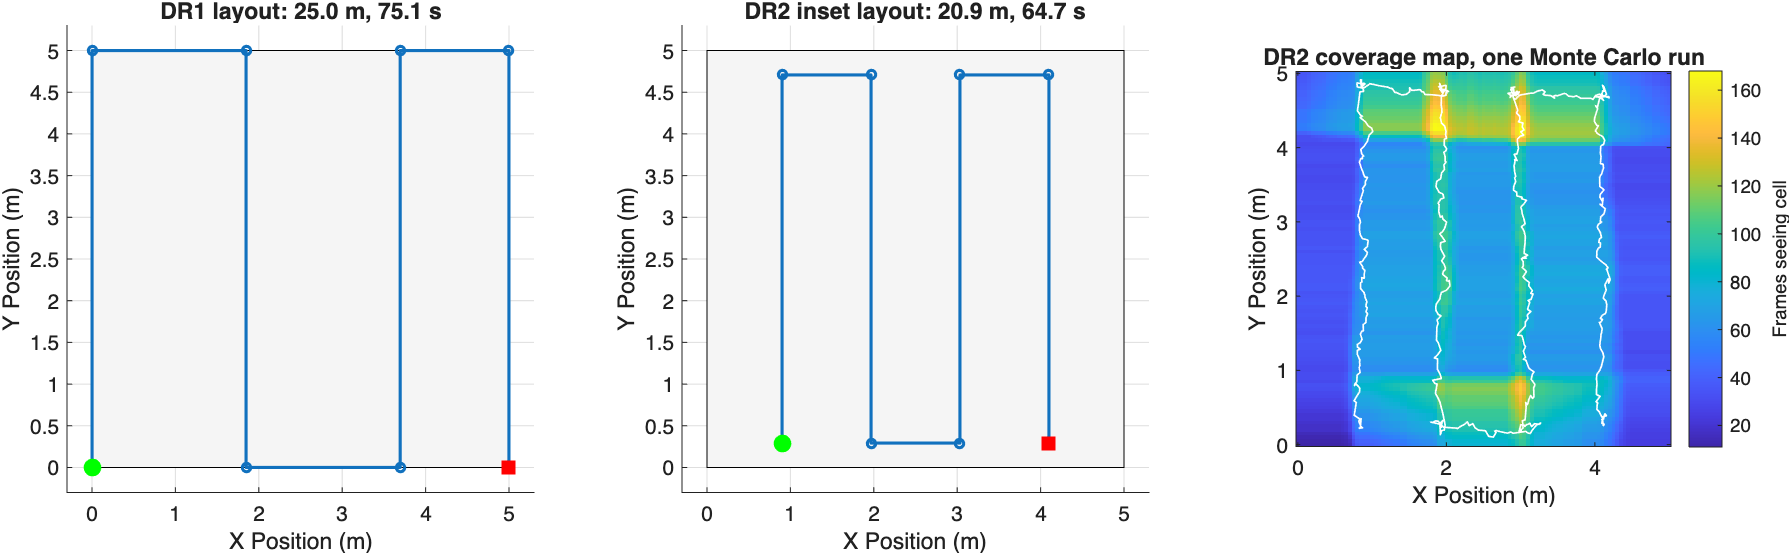
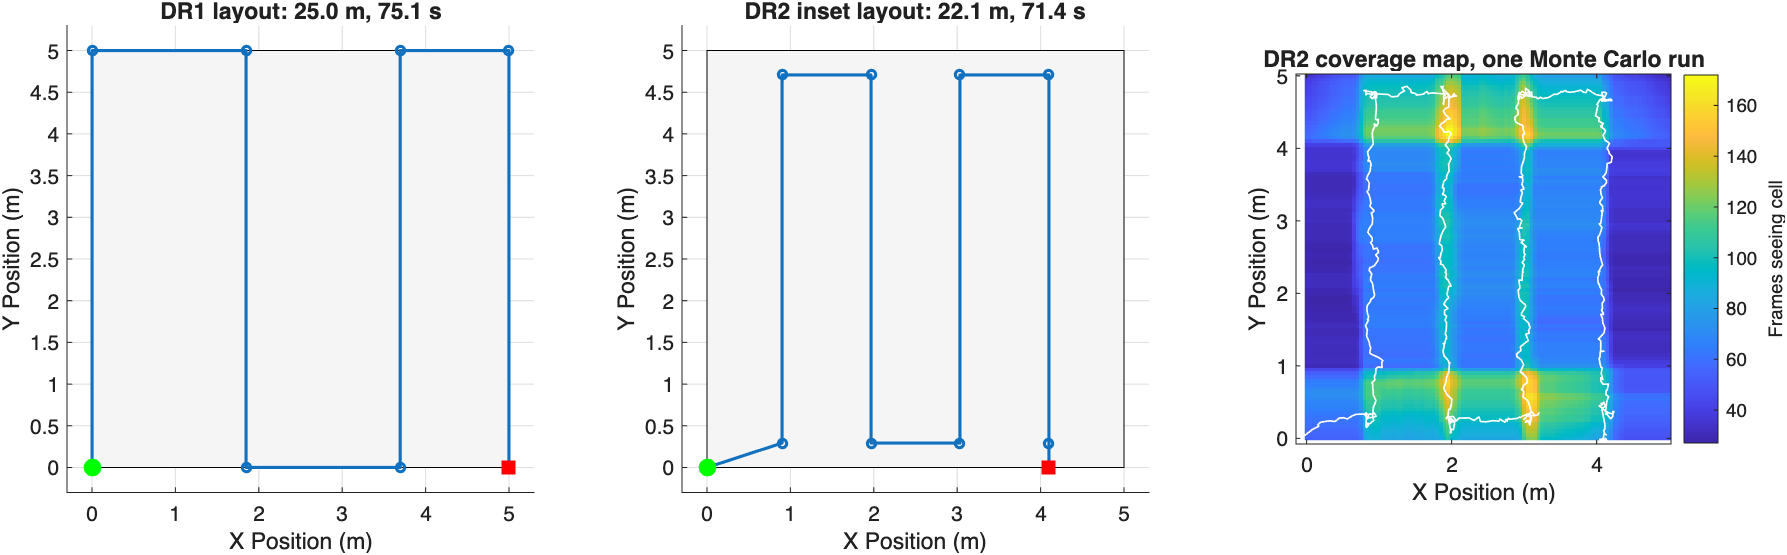
adding everything lololol

diff --git a/DR2/benchTest/aruco_bench.py b/DR2/benchTest/aruco_bench.py
@@ -1,0 +1,178 @@
+"""ArUco detection bench test for the Raspberry Pi 5.
+
+Captures frames from the camera, runs OpenCV ArUco detection on each one, and
+logs per-frame timing, whether the marker was found, and how many pixels wide
+it appeared. One CSV per test case; a summary prints at the end.
+
+Requires OpenCV >= 4.7 (ArucoDetector API). For a Pi camera module (CSI) it
+uses picamera2; pass --usb for a USB webcam.
+
+Examples:
+    # Detection speed at 1080p, auto exposure, 30 s
+    python aruco_bench.py --label speed_1080p --duration 30
+
+    # Fixed 4 ms exposure, camera 2.0 m above an 8 cm marker
+    python aruco_bench.py --label h200_8cm_exp4ms --exposure-us 4000 --height-m 2.0 --marker-cm 8
+"""
+import argparse
+import csv
+import os
+import time
+
+import cv2
+import numpy as np
+
+
+def open_camera(args):
+    if args.usb:
+        cap = cv2.VideoCapture(args.usb_index)
+        cap.set(cv2.CAP_PROP_FRAME_WIDTH, args.width)
+        cap.set(cv2.CAP_PROP_FRAME_HEIGHT, args.height)
+        if args.exposure_us:
+            cap.set(cv2.CAP_PROP_AUTO_EXPOSURE, 1)  # manual on V4L2; driver dependent
+            cap.set(cv2.CAP_PROP_EXPOSURE, args.exposure_us / 100.0)
+
+        def grab():
+            ok, frame = cap.read()
+            if not ok:
+                raise RuntimeError("USB camera read failed")
+            return cv2.cvtColor(frame, cv2.COLOR_BGR2GRAY)
+
+        return grab, cap.release
+
+    from picamera2 import Picamera2
+
+    picam2 = Picamera2()
+    config = picam2.create_video_configuration(main={"size": (args.width, args.height), "format": "YUV420"})
+    picam2.configure(config)
+    if args.exposure_us:
+        picam2.set_controls({"AeEnable": False, "ExposureTime": args.exposure_us, "AnalogueGain": args.gain})
+    picam2.start()
+    time.sleep(1.0)  # let exposure/white balance settle
+
+    def grab():
+        yuv = picam2.capture_array("main")
+        return yuv[:args.height, :args.width]  # Y plane is the grayscale image
+
+    return grab, picam2.stop
+
+
+def marker_side_px(corners):
+    pts = corners.reshape(4, 2)
+    return float(np.mean(np.linalg.norm(pts - np.roll(pts, -1, axis=0), axis=1)))
+
+
+def main():
+    parser = argparse.ArgumentParser()
+    parser.add_argument("--label", required=True, help="test case name, used for output files")
+    parser.add_argument("--width", type=int, default=1920)
+    parser.add_argument("--height", type=int, default=1080)
+    parser.add_argument("--exposure-us", type=int, default=0, help="fixed exposure [us]; 0 = auto")
+    parser.add_argument("--gain", type=float, default=2.0, help="analogue gain when exposure is fixed")
+    parser.add_argument("--dict", default="DICT_4X4_50", help="ArUco dictionary (match the mission marker)")
+    parser.add_argument("--marker-id", type=int, default=0)
+    parser.add_argument("--duration", type=float, default=20.0, help="test length [s]")
+    parser.add_argument("--height-m", type=float, default=float("nan"), help="measured camera height, for the log")
+    parser.add_argument("--marker-cm", type=float, default=float("nan"), help="printed marker size, for the log")
+    parser.add_argument("--save-every", type=int, default=50, help="save every Nth annotated frame (0 = never)")
+    parser.add_argument("--usb", action="store_true", help="use a USB webcam instead of picamera2")
+    parser.add_argument("--usb-index", type=int, default=0)
+    args = parser.parse_args()
+
+    out_dir = os.path.join("results", args.label)
+    os.makedirs(out_dir, exist_ok=True)
+
+    dictionary = cv2.aruco.getPredefinedDictionary(getattr(cv2.aruco, args.dict))
+    detector = cv2.aruco.ArucoDetector(dictionary, cv2.aruco.DetectorParameters())
+
+    grab, close = open_camera(args)
+
+    rows = []
+    t_start = time.perf_counter()
+    t_last_print = t_start
+    frame_index = 0
+
+    try:
+        while time.perf_counter() - t_start < args.duration:
+            t_frame = time.perf_counter()
+            gray = grab()
+
+            t0 = time.perf_counter()
+            corners, ids, _ = detector.detectMarkers(gray)
+            detect_ms = 1000 * (time.perf_counter() - t0)
+
+            found, side_px = False, float("nan")
+            if ids is not None:
+                for c, marker_id in zip(corners, ids.flatten()):
+                    if marker_id == args.marker_id:
+                        found, side_px = True, marker_side_px(c)
+                        break
+
+            rows.append({
+                "frame": frame_index,
+                "t_s": t_frame - t_start,
+                "detect_ms": detect_ms,
+                "found": int(found),
+                "side_px": side_px,
+                "mean_brightness": float(gray.mean()),
+            })
+
+            if args.save_every and frame_index % args.save_every == 0:
+                annotated = cv2.cvtColor(gray, cv2.COLOR_GRAY2BGR)
+                if ids is not None:
+                    cv2.aruco.drawDetectedMarkers(annotated, corners, ids)
+                cv2.imwrite(os.path.join(out_dir, f"frame_{frame_index:05d}.jpg"), annotated)
+
+            now = time.perf_counter()
+            if now - t_last_print >= 1.0:
+                recent = rows[-30:]
+                print(f"{now - t_start:5.1f} s | frames {len(rows)} | "
+                      f"detect {np.mean([r['detect_ms'] for r in recent]):5.1f} ms | "
+                      f"found {100 * np.mean([r['found'] for r in recent]):5.1f} %")
+                t_last_print = now
+
+            frame_index += 1
+    finally:
+        close()
+
+    elapsed = time.perf_counter() - t_start
+    with open(os.path.join(out_dir, "frames.csv"), "w", newline="") as f:
+        writer = csv.DictWriter(f, fieldnames=rows[0].keys())
+        writer.writeheader()
+        writer.writerows(rows)
+
+    detect = np.array([r["detect_ms"] for r in rows])
+    found = np.array([r["found"] for r in rows])
+    sides = np.array([r["side_px"] for r in rows if r["found"]])
+
+    summary = {
+        "label": args.label,
+        "resolution": f"{args.width}x{args.height}",
+        "exposure_us": args.exposure_us or "auto",
+        "height_m": args.height_m,
+        "marker_cm": args.marker_cm,
+        "frames": len(rows),
+        "loop_fps": len(rows) / elapsed,
+        "detect_ms_mean": detect.mean(),
+        "detect_ms_p95": np.percentile(detect, 95),
+        "max_detect_fps": 1000 / detect.mean(),
+        "detection_rate_pct": 100 * found.mean(),
+        "side_px_mean": sides.mean() if sides.size else float("nan"),
+    }
+
+    print("\n=== Summary ===")
+    for key, value in summary.items():
+        print(f"{key:20s} {value:.2f}" if isinstance(value, float) else f"{key:20s} {value}")
+
+    # One line per test case, appended, so all cases end up in one table
+    summary_path = os.path.join("results", "summary.csv")
+    write_header = not os.path.exists(summary_path)
+    with open(summary_path, "a", newline="") as f:
+        writer = csv.DictWriter(f, fieldnames=summary.keys())
+        if write_header:
+            writer.writeheader()
+        writer.writerow(summary)
+
+
+if __name__ == "__main__":
+    main()

diff --git a/DR2/benchTest/make_markers.py b/DR2/benchTest/make_markers.py
@@ -1,0 +1,52 @@
+"""Generate printable ArUco markers at exact physical sizes.
+
+Run on a laptop with OpenCV (pip install opencv-python). Print the PNGs at
+100% scale ("actual size", no fit-to-page) and measure the black square with a
+ruler to confirm the size before testing.
+
+Printing several sizes lets you sweep pixels-across-marker from a single
+camera height instead of moving the camera.
+
+Example:
+    python make_markers.py --sizes-cm 8 6 4 3 2 1.5
+"""
+import argparse
+
+import cv2
+import numpy as np
+
+DPI = 300
+
+
+def cm_to_px(cm):
+    return int(round(cm / 2.54 * DPI))
+
+
+def main():
+    parser = argparse.ArgumentParser()
+    parser.add_argument("--dict", default="DICT_4X4_50", help="ArUco dictionary (match the mission marker)")
+    parser.add_argument("--id", type=int, default=0, help="marker ID")
+    parser.add_argument("--sizes-cm", type=float, nargs="+", default=[8.0], help="black-square side lengths [cm]")
+    args = parser.parse_args()
+
+    dictionary = cv2.aruco.getPredefinedDictionary(getattr(cv2.aruco, args.dict))
+
+    for size_cm in args.sizes_cm:
+        side = cm_to_px(size_cm)
+        marker = cv2.aruco.generateImageMarker(dictionary, args.id, side)
+
+        # White quiet zone around the marker, plus a label
+        margin = cm_to_px(1.0)
+        page = np.full((side + 2 * margin + cm_to_px(0.8), side + 2 * margin), 255, np.uint8)
+        page[margin:margin + side, margin:margin + side] = marker
+        label = f"{args.dict} id {args.id}  side {size_cm:g} cm @ {DPI} dpi"
+        cv2.putText(page, label, (margin, margin + side + cm_to_px(0.6)),
+                    cv2.FONT_HERSHEY_SIMPLEX, 0.8, 0, 2)
+
+        name = f"marker_{args.dict}_id{args.id}_{size_cm:g}cm.png"
+        cv2.imwrite(name, page, [cv2.IMWRITE_PNG_COMPRESSION, 9])
+        print(f"wrote {name}")
+
+
+if __name__ == "__main__":
+    main()

diff --git a/DR2/coveragePlanning.m b/DR2/coveragePlanning.m
@@ -99,6 +99,18 @@ fprintf('Path margins: cross-track %.2f m, along-track %.2f m\n', crossTrackMarg
 wpDR1 = generateLawnmowerDR1(p, fp);
 wpDR2 = generateInsetLawnmower(p, fp, crossTrackMargin, alongTrackMargin);
 
+% Search starts where the drone reaches the area: the border point closest to launch
+entryPoint = min(max(m.launchPoint, [0 0]), [p.areaWidth p.areaLength]);
+wpDR2 = [entryPoint; wpDR2];
+
+% Search ends where the drone leaves the area: the border point closest to the last track end
+lastPoint = wpDR2(end,:);
+edges = [0, p.areaWidth, 0, p.areaLength];
+[~, k] = min(abs(lastPoint([1 1 2 2]) - edges));
+exitPoint = lastPoint;
+exitPoint(ceil(k/2)) = edges(k);
+wpDR2 = [wpDR2; exitPoint];
+
 trajDR1 = buildTrajectory(wpDR1, p.vCruise, p.accel, p.cornerHold, p.dt);
 trajDR2 = buildTrajectory(wpDR2, p.vCruise, p.accel, p.cornerHold, p.dt);
 
@@ -109,7 +121,7 @@ dr1ReportedTime = pathLengthDR1/0.5; % DR1 model: constant 0.5 m/s, instant turn
 fprintf('\nDR1 layout: %.1f m, DR1-reported %.1f s, kinematic %.1f s\n', ...
     pathLengthDR1, dr1ReportedTime, trajDR1.t(end));
 fprintf('DR2 layout: %.1f m, kinematic %.1f s (%d tracks)\n', ...
-    pathLengthDR2, trajDR2.t(end), size(wpDR2,1)/2);
+    pathLengthDR2, trajDR2.t(end), (size(wpDR2,1) - 2)/2);
 
 %% Monte Carlo on the DR2 path
 [X, Y] = meshgrid(0:p.gridSpacing:p.areaWidth, 0:p.gridSpacing:p.areaLength);
